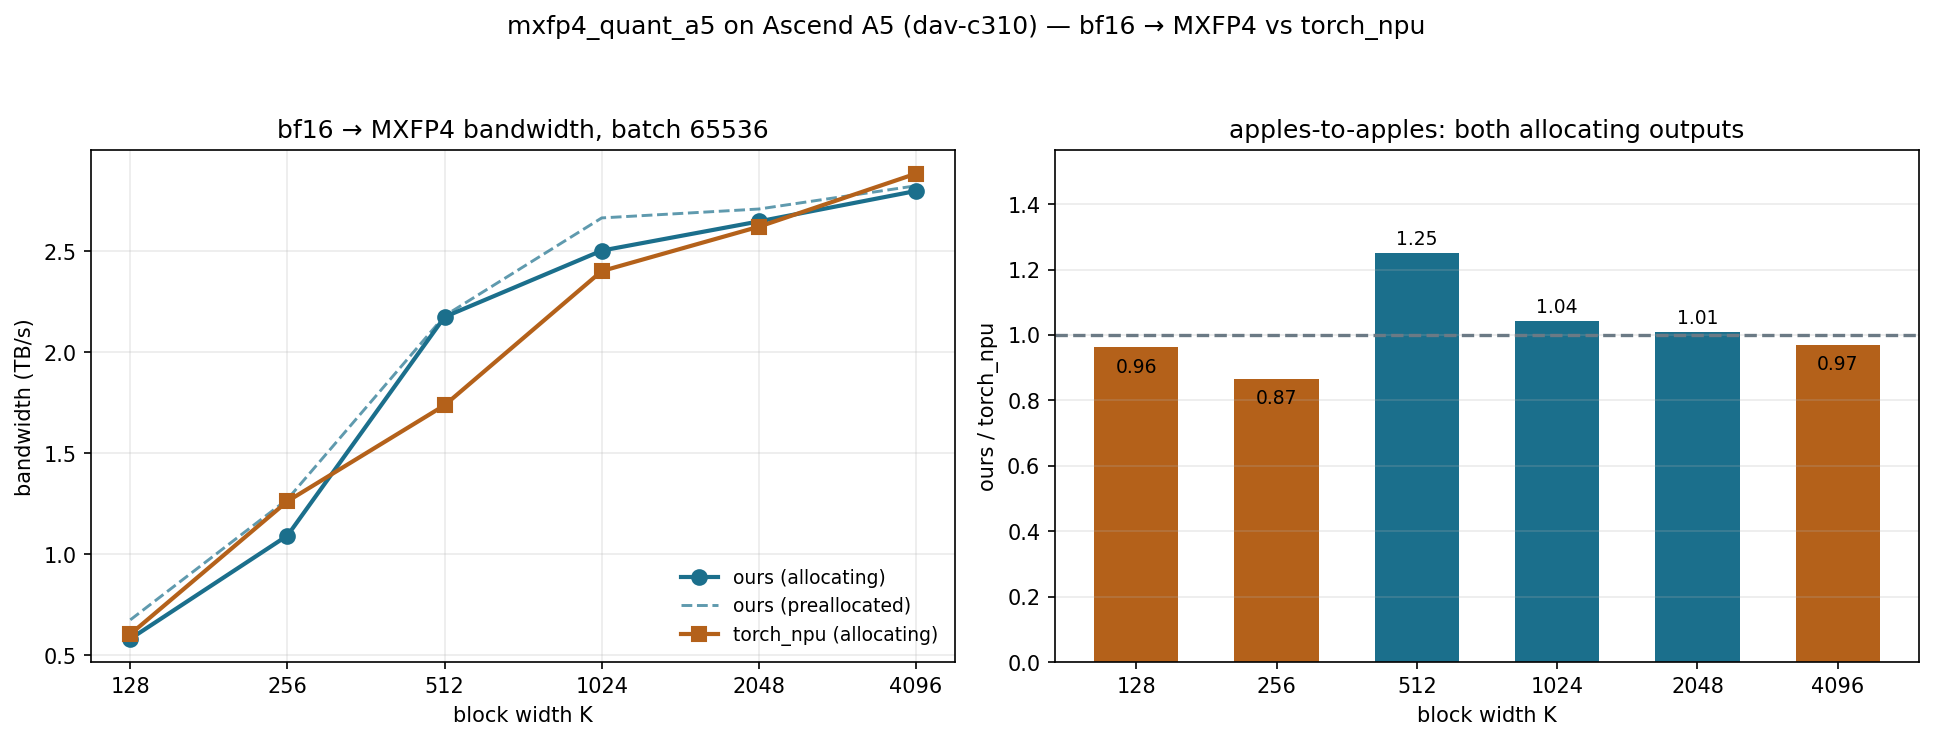
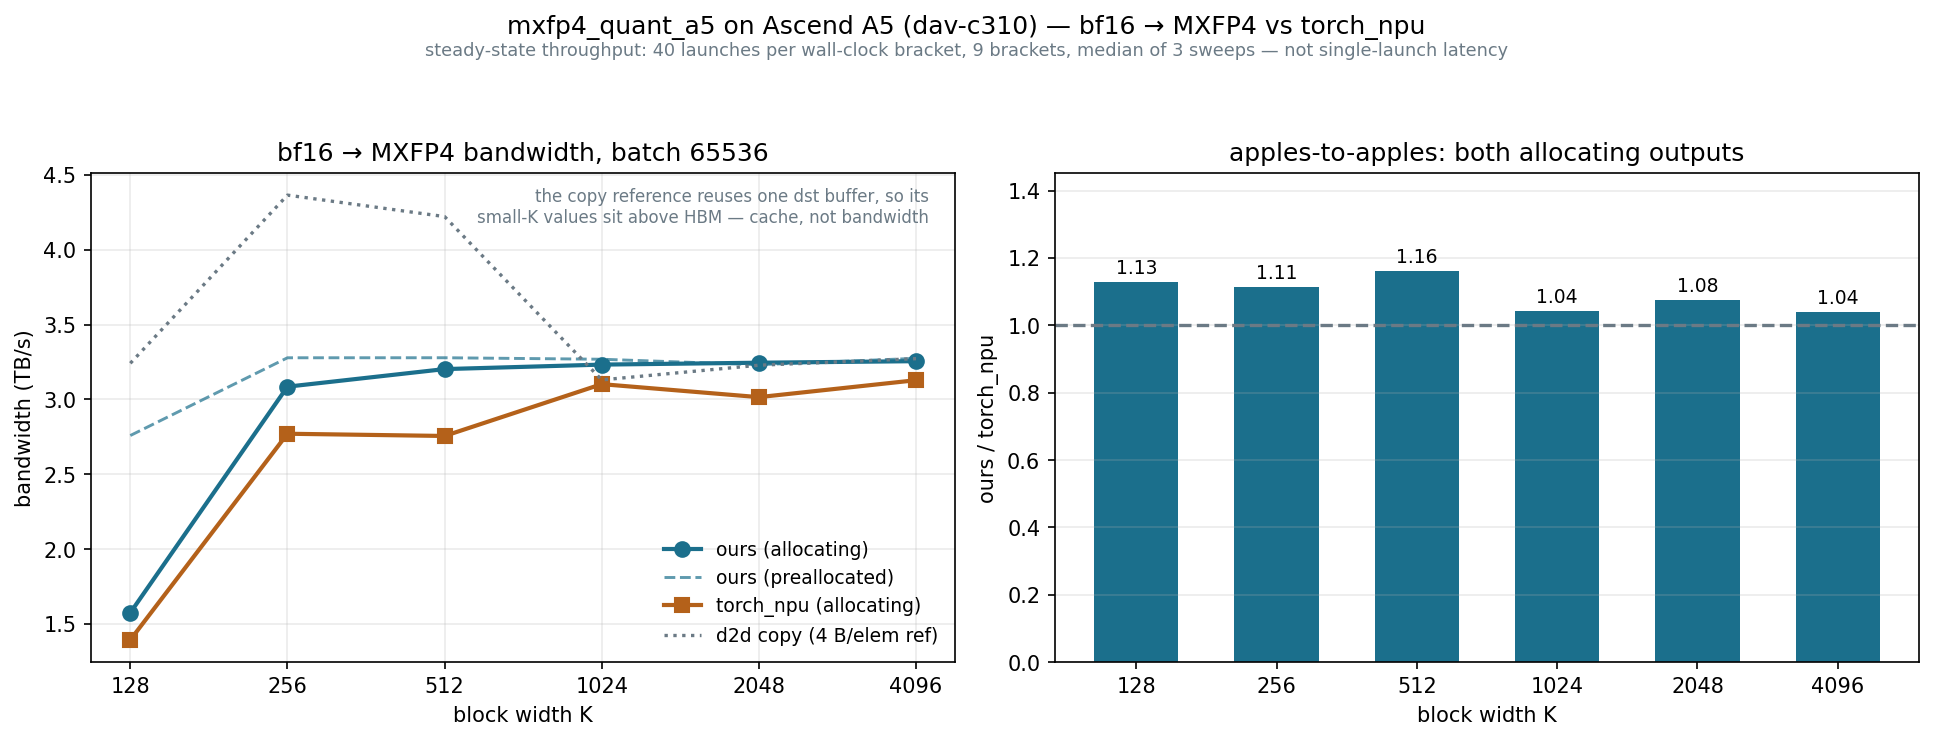
mxfp4_quant_a5: remeasure on a saturated-queue timer, add a copy reference
Per-launch torch.npu.Event pairs are not a usable timer on this box: the same
single launch (batch 4096, K=4096) measured 82.0, 27.7, 7.6 and 24.0 us in one
process, and whole rows returned 0.04 us -- below the timer's resolution -- while
a device-wide synchronize proved the kernel had run and was bit-exact. Not a
stream mismatch; current_stream()._as_parameter_ is the stream the events record
against.

Timing is now a saturated queue: synchronize, 40 launches, synchronize, wall
clock / 40, 9 brackets, median of 3 sweeps. Same treatment for every contender.
These are bandwidth figures with dispatch amortised out rather than single-call
latency, which is now stated on the figure -- the two differ by 4.7x at K=128.

Also pins the pool budget at 1 GiB so depth >= 2 holds at every K and the
footprint stays inside 805-1074 MiB rather than 235-1074 MiB, and adds a d2d copy
roofline reference, annotated because it reuses one destination buffer and so
reads above HBM at small K.

Kernel side of this measurement: quant_pack rebuilt on CANN's PART_P0/PART_P1 +
vor + PK_B32 sequence (no compacting gather) and TILE_ELEMS 8192 -> 16384.

Claude-Session: https://claude.ai/code/session_016qbbp2Kjzv1AhUkU6w1mi4

diff --git a/mxfp4_quant_a5/plot_mxfp4_bench_a5.py b/mxfp4_quant_a5/plot_mxfp4_bench_a5.py
@@ -9,6 +9,16 @@ Reads the CSVs from benchmark.py and renders two panels:
 Only the allocating rows are compared. torch_npu allocates inherently, so pitting
 it against a preallocated kernel would credit us with an allocation we skipped;
 the preallocated row is drawn as a dashed reference, not as the comparison.
+
+A device-to-device copy is drawn as a roofline reference. It moves 4 B/elem where
+the quantizers move 2.53, so its curve is NOT a competitor -- it says how much of
+the machine is left.
+
+Timing is a saturated queue (N launches between two synchronizes, wall clock / N),
+not per-launch events: per-launch torch.npu.Event pairs on this box returned
+82.0/27.7/7.6/24.0 us for one and the same launch. These are therefore bandwidth
+figures with per-launch dispatch amortised out, which is stated on the figure
+because it is the difference between "582 GB/s" and "2759 GB/s" at K=128.
 """
 
 import argparse
@@ -92,6 +102,30 @@ def draw_bandwidth(axis, rows):
             ms=7,
             label="torch_npu (allocating)",
         )
+    kc, copy = series(rows, "d2d_copy", 0)
+    if copy:
+        axis.plot(
+            kc,
+            [v / 1000 for v in copy],
+            ":",
+            color=NEUTRAL,
+            lw=1.6,
+            label="d2d copy (4 B/elem ref)",
+        )
+        # the copy rewrites one destination buffer, so at small K that buffer stays
+        # resident and the rate goes above HBM -- say so rather than let the
+        # reference line look like a broken baseline
+        axis.text(
+            0.97,
+            0.97,
+            "the copy reference reuses one dst buffer, so its\n"
+            "small-K values sit above HBM — cache, not bandwidth",
+            transform=axis.transAxes,
+            ha="right",
+            va="top",
+            fontsize=8,
+            color=NEUTRAL,
+        )
     axis.set_xscale("log", base=2)
     axis.set_xticks(ks)
     axis.set_xticklabels([str(k) for k in ks])
@@ -161,7 +195,16 @@ def main():
     draw_bandwidth(left, rows)
     draw_ratio(right, rows)
     fig.suptitle("mxfp4_quant_a5 on Ascend A5 (dav-c310) — bf16 → MXFP4 vs torch_npu")
-    fig.tight_layout(rect=(0, 0, 1, 0.94))
+    fig.text(
+        0.5,
+        0.925,
+        "steady-state throughput: 40 launches per wall-clock bracket, "
+        "9 brackets, median of 3 sweeps — not single-launch latency",
+        ha="center",
+        fontsize=8.5,
+        color=NEUTRAL,
+    )
+    fig.tight_layout(rect=(0, 0, 1, 0.91))
     out = args.csv.parent / args.plot_name
     fig.savefig(out, dpi=150, bbox_inches="tight")
     plt.close(fig)
